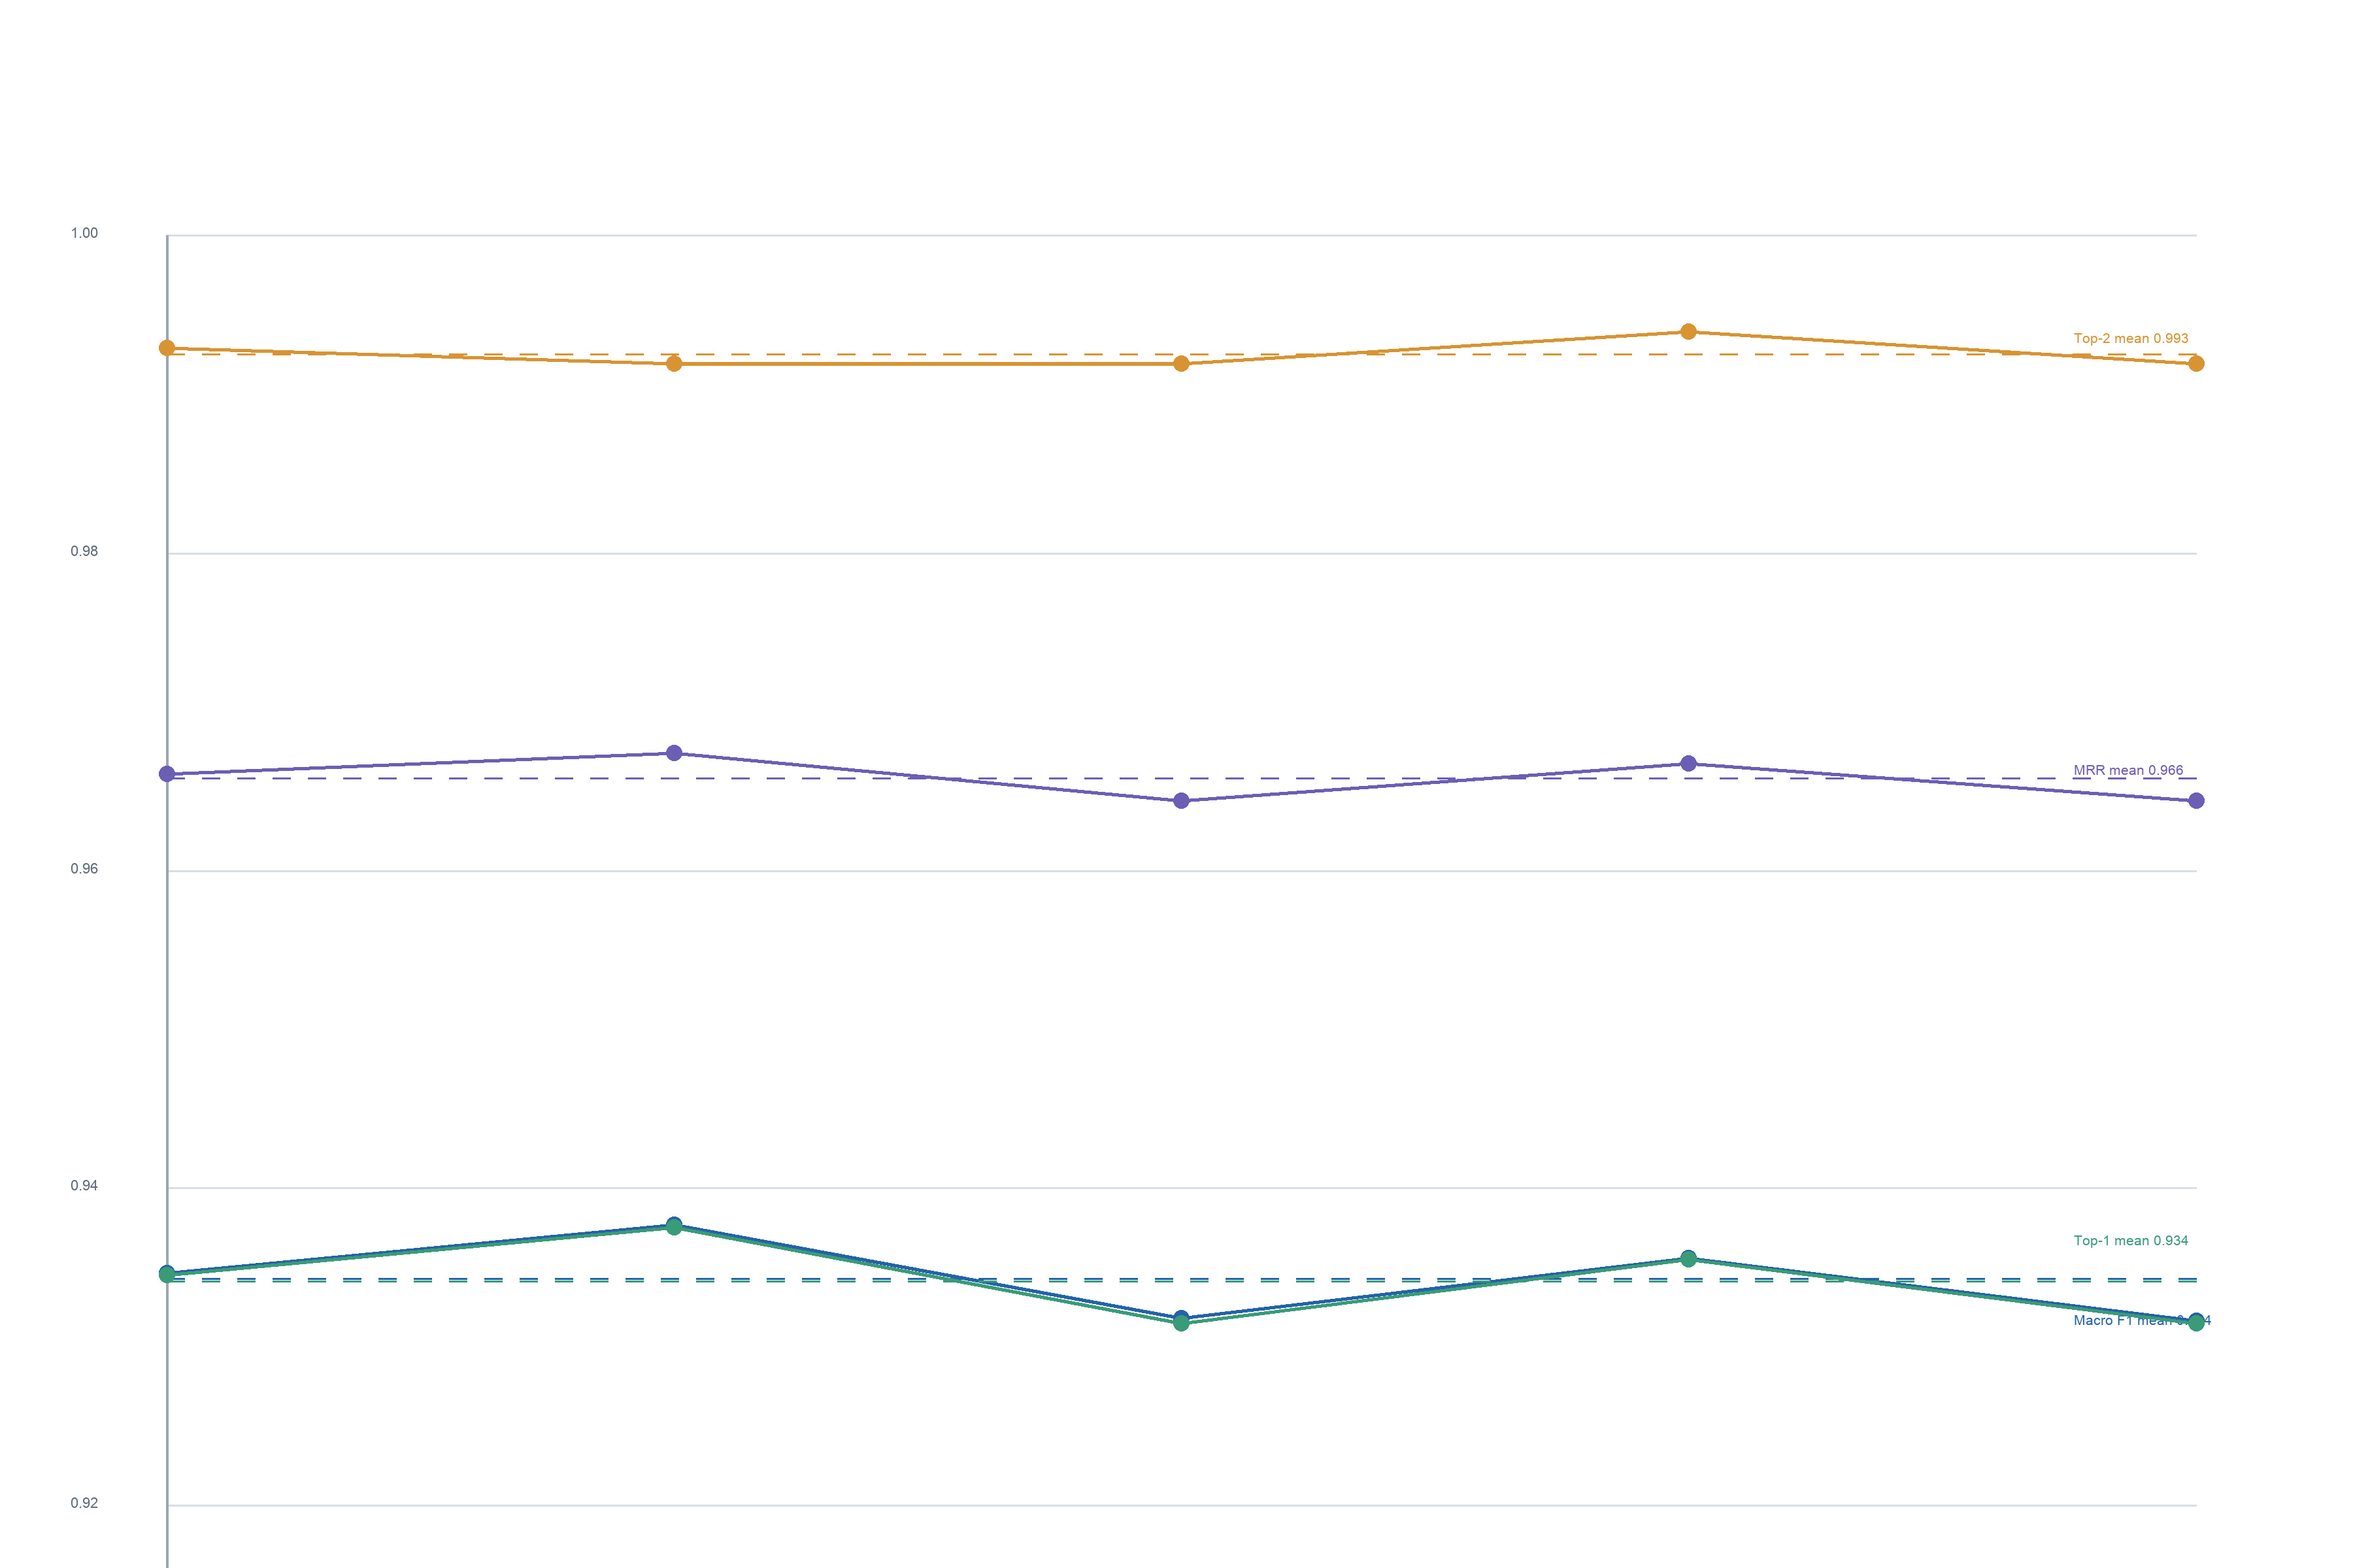
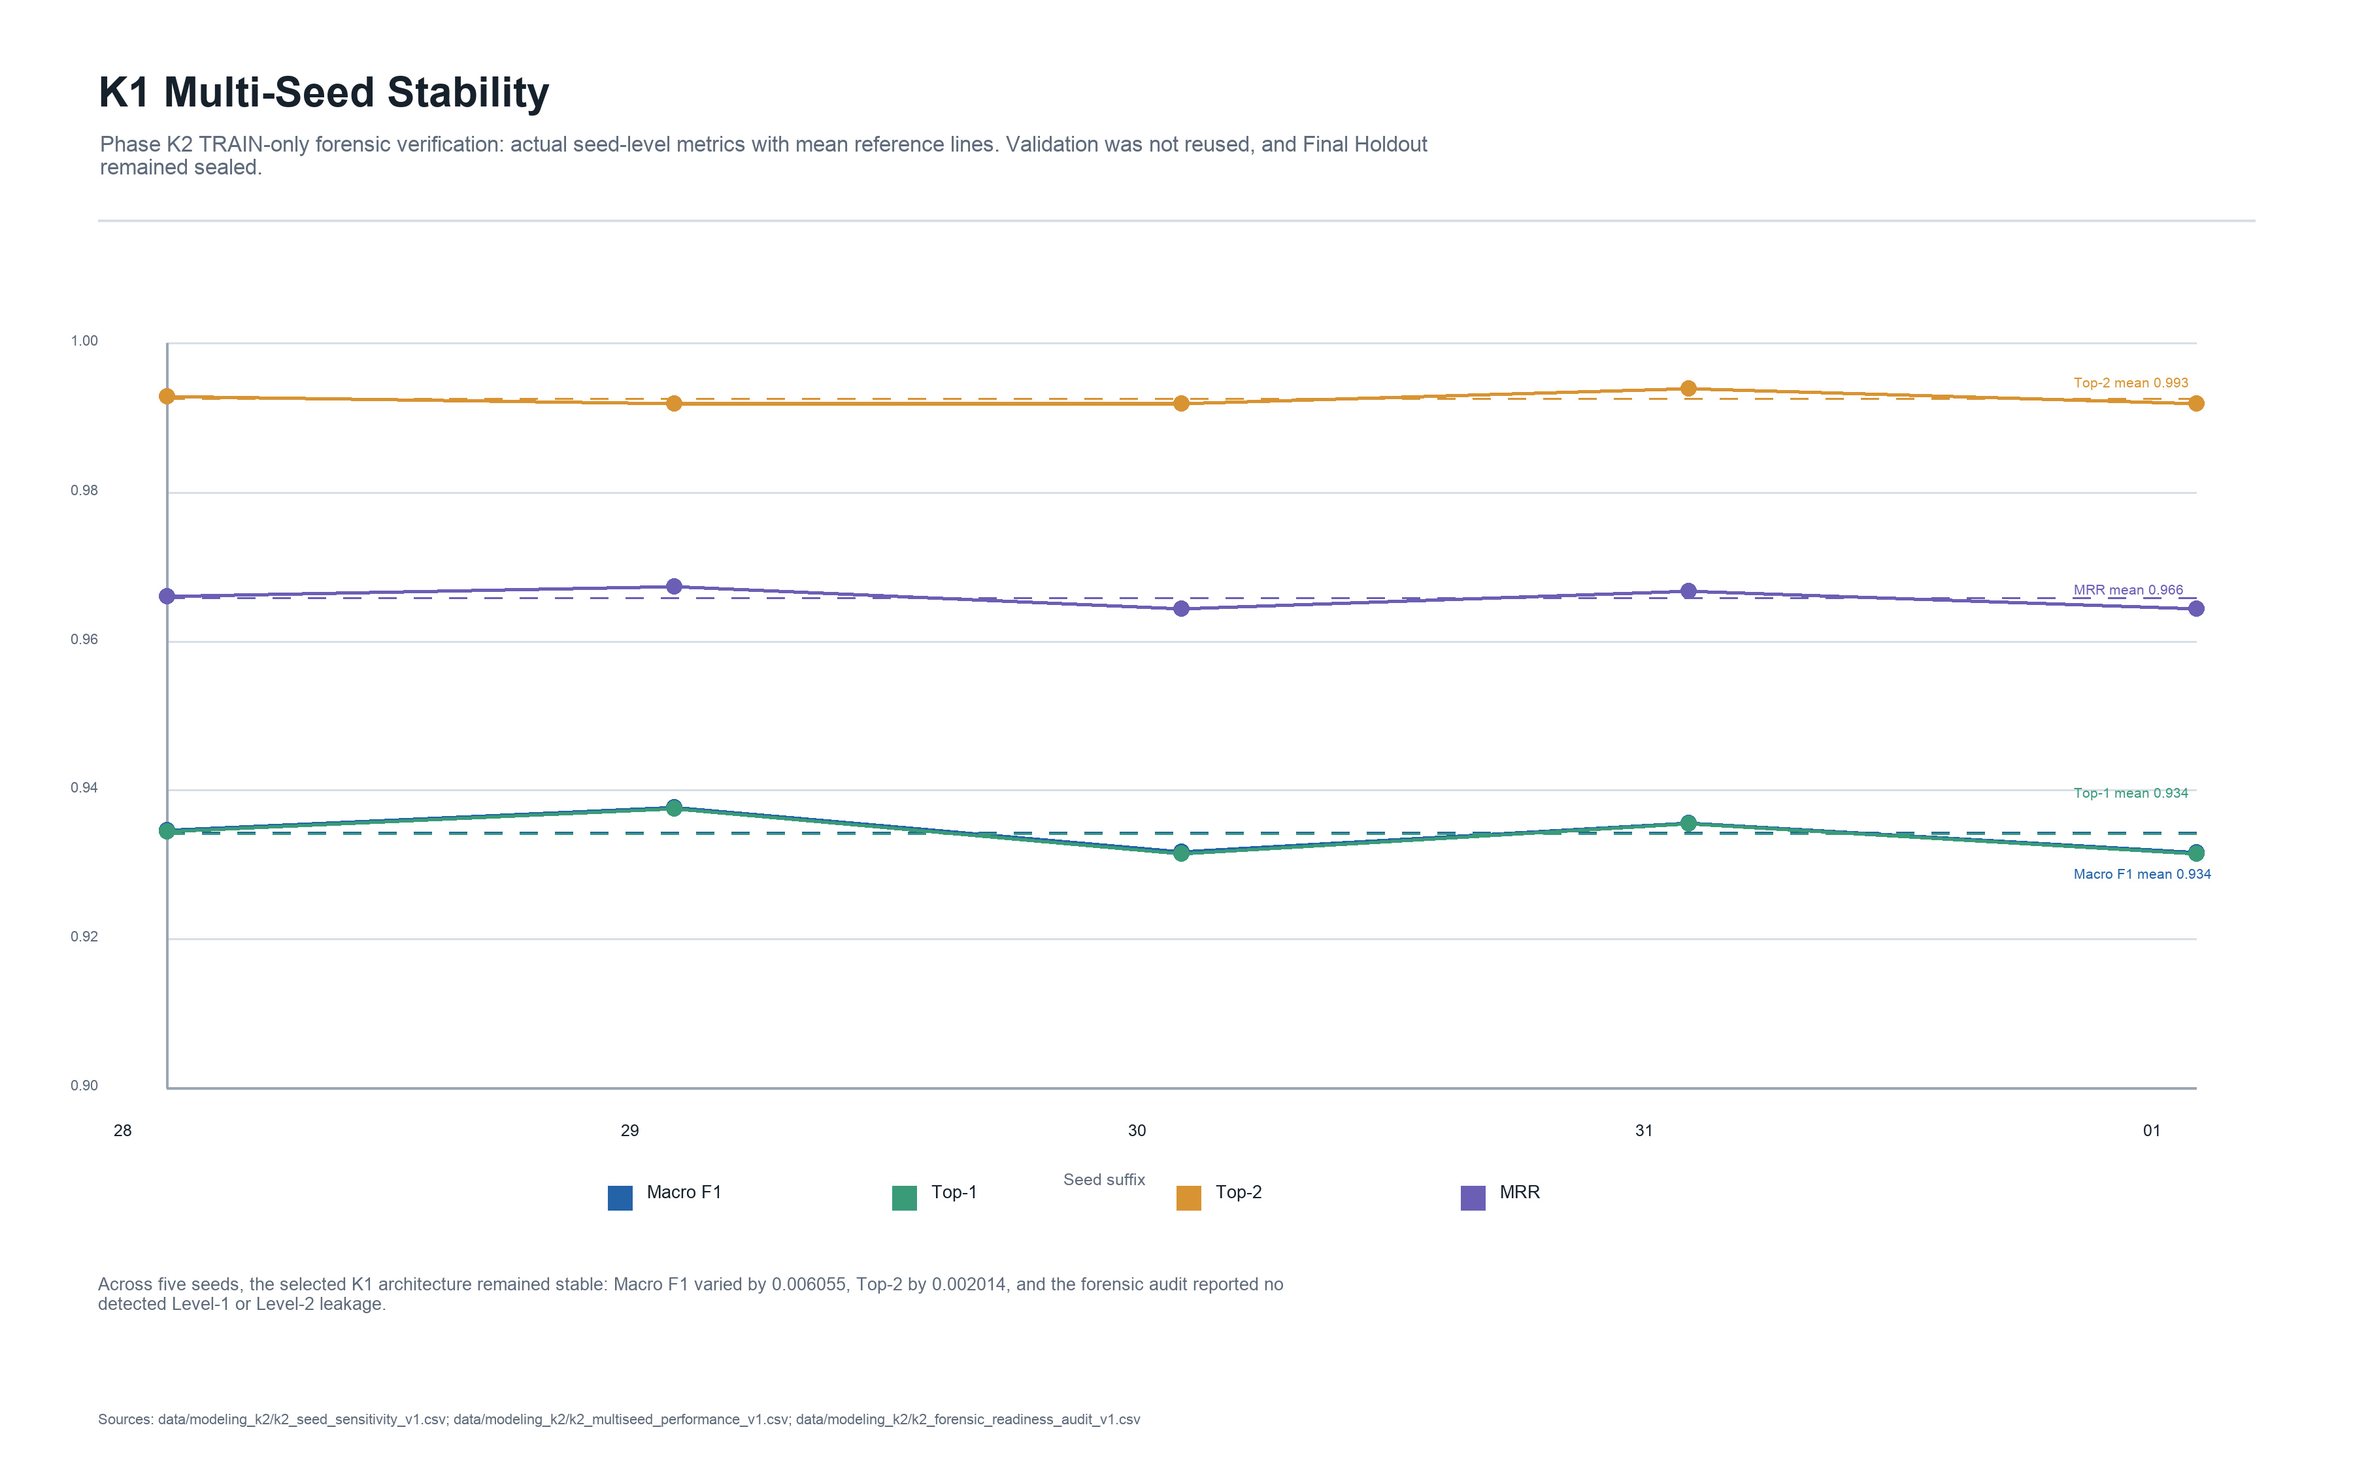
Fix K2 stability highres JPG export

diff --git a/scripts/generate_chapter4_section_4_10_artifacts.py b/scripts/generate_chapter4_section_4_10_artifacts.py
@@ -318,7 +318,7 @@ def main() -> None:
 
     fig = draw_stability(seed_rows, multi, 2400, 1500, True)
     save_outputs(fig, FIG_PNG, FIG_PDF)
-    jpg = draw_stability(seed_rows, multi, 3600, 2400, False)
+    jpg = draw_stability(seed_rows, multi, 3600, 2250, True)
     save_jpg(jpg, FIG_JPG)
 
     m = {row["metric"]: row for row in multi}
